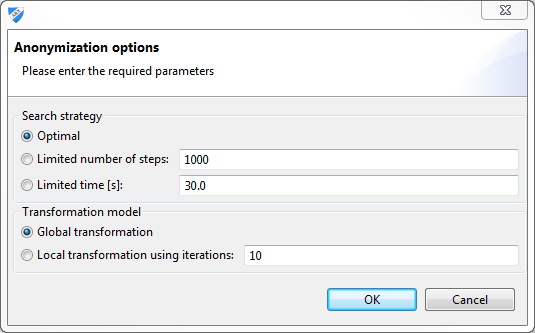
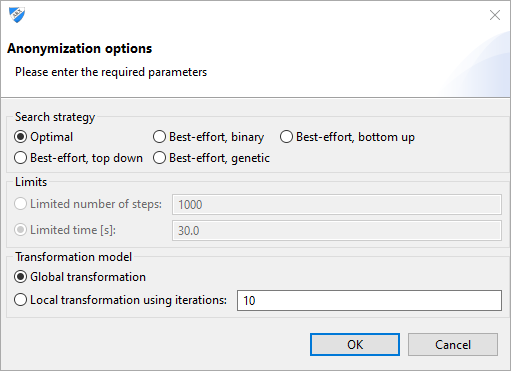
Update documentation for ARX 3.9.0

Changed region(s): [[0.0, 0.0, 1.0, 1.0], [0.3229, 0.6006, 0.411, 0.6607]]

diff --git a/help/v3.9.0/anonymization.html b/help/v3.9.0/anonymization.html
@@ -3,16 +3,23 @@
     <p>ARX provides a dedicated dialog for selecting an adequate search strategy, configuring aspects of the
     transformation model, and, finally, starting the anonymization process:</p>
     <img src="/help/v3.9.0/img/anonymization.png" alt="Anonymization" width="535" height="333" />
-    <p>Three different search strategies are available:</p>
+    <p>Two different types of search strategies are supported:</p>
     <ol>
         <li>Optimal search strategy.</li>
-		<li>Heuristic search strategy terminating after a pre-defined number of search steps.</li>
-		<li>Heuristic search strategy terminating after a pre-defined amount of time.</li>
+		<li>Heuristic search strategy.</li>
 	</ol>
-	<p>Please note that the optimal search strategy reliably determines the transformation resulting in the highest
+	<p>The optimal search strategy reliably determines the transformation resulting in the highest
 	possible quality of output data but scalability issues may occur when processing large datasets. The heuristic
-	search strategies are often able to determine the optimal strategy very quickly, but optimality can not be guaranteed.
-	For large datasets they work on a best-effort basis.
+	search strategies will terminate after a pre-defined number of search steps or a pre-defined amount of time.
+	They are often able to determine the optimal strategy, but optimality can not be guaranteed in the general case.
+	For large datasets they work on a best-effort basis.</p>
+	<p>Four different heuristic search strategies are supported:</p>
+	    <ol>
+		<li>Top-down specialization.</li>
+		<li>Bottom-up generalization.</li>
+		<li>Binary search, which combines top-down and bottom-up.</li>
+		<li>Genetic search.</li>
+	</ol>
 	<p>Two different transformation models are supported:</p>
     <ol>
         <li>Global transformation: the same transformation strategy will be applied to all records in the dataset.</li>
